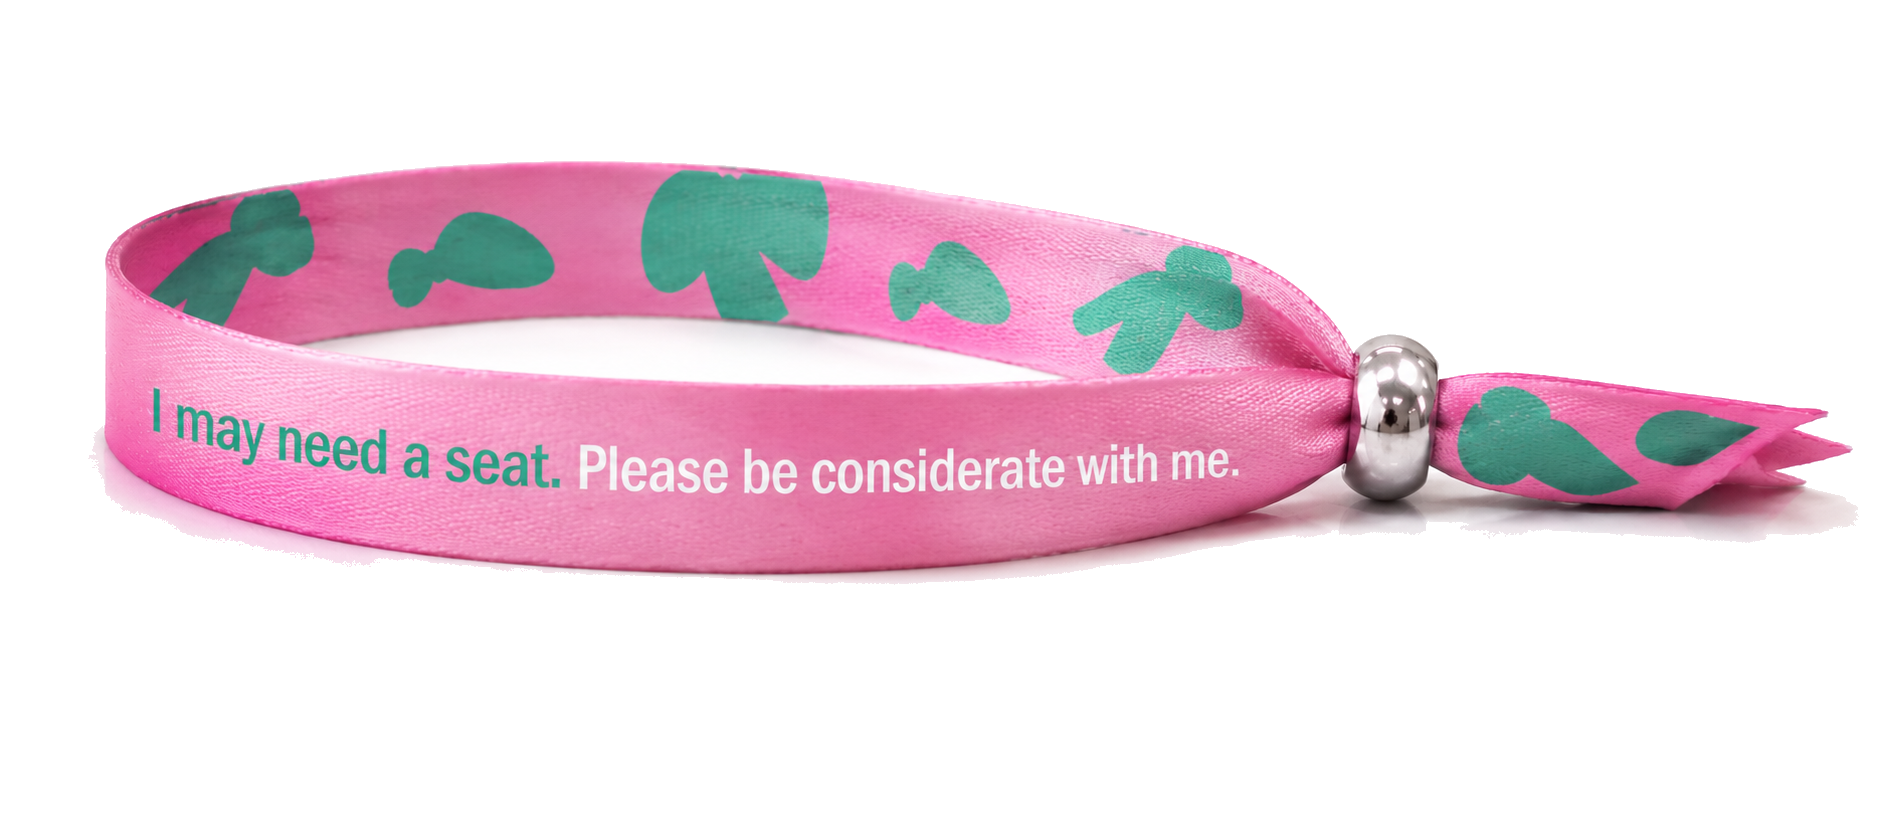
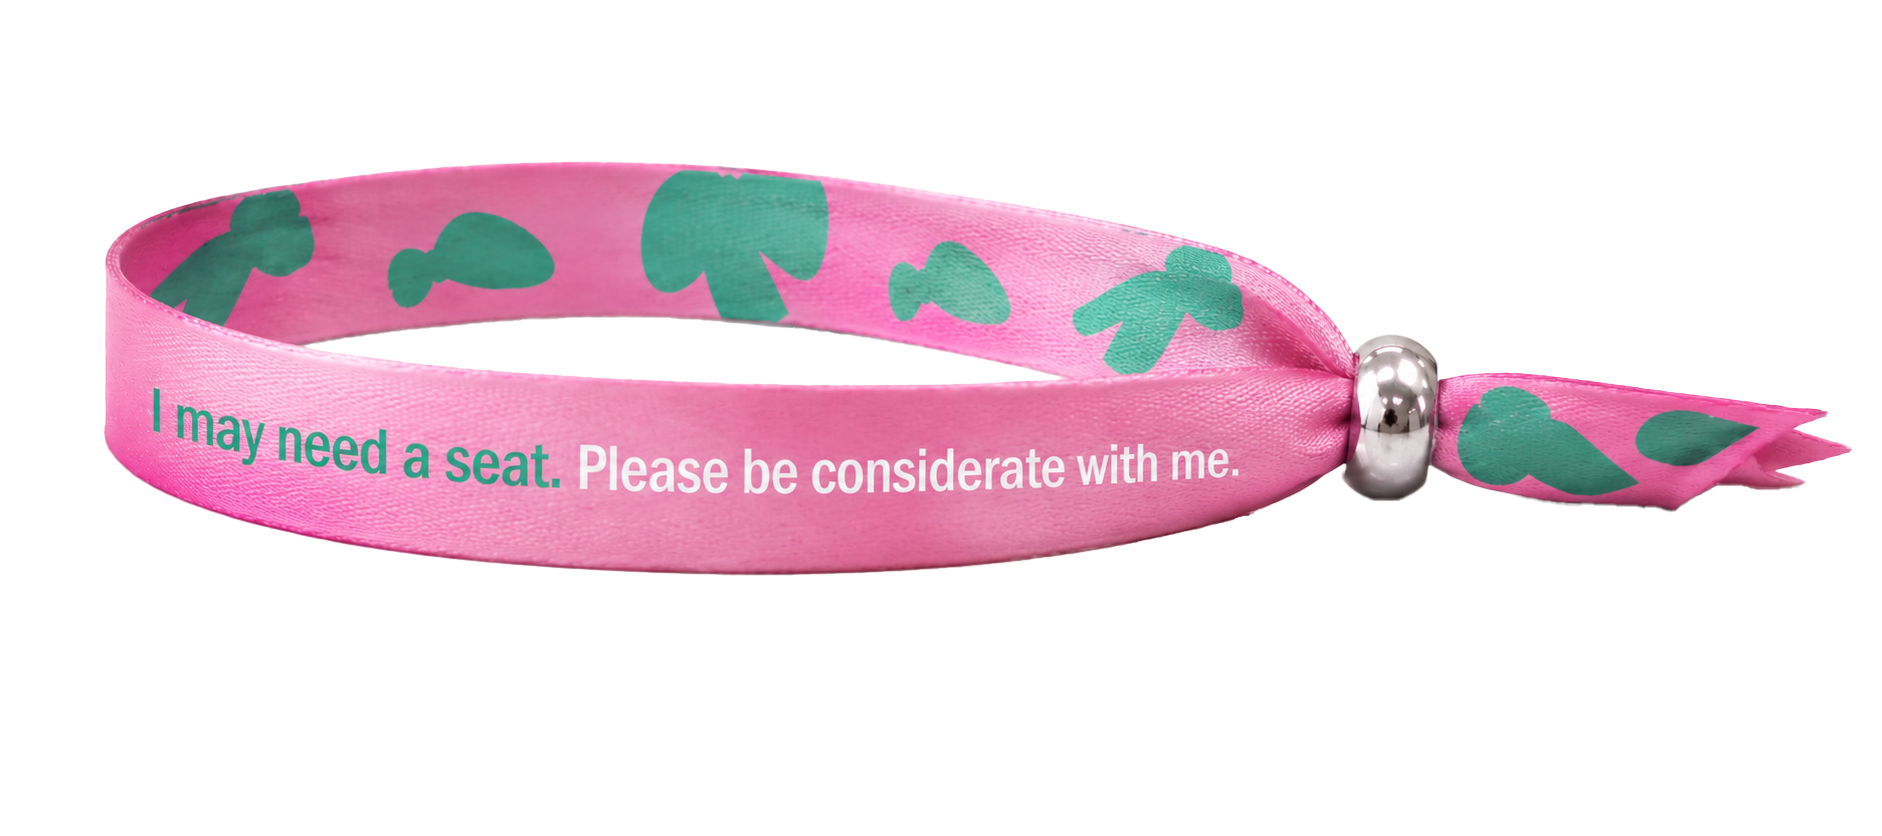
refactor: update typography configurations, reposition wristband graphics, and implement randomized circle drop-in animation logic

Changed region(s): [[0.3082, 0.5598, 0.9862, 0.7153], [0.0308, 0.5287, 0.3082, 0.6842], [0.1541, 0.3732, 0.4623, 0.4354]]

diff --git a/unseen.html b/unseen.html
@@ -85,14 +85,33 @@
               "overlap-offset": "-40px"
             },
             fontFamily: {
-              "body-lg": ["Tobias", "serif"],
-              "display-xl": ["Tobias", "serif"],
-              "headline-md": ["Franklin Gothic Medium", "sans-serif"],
-              "headline-lg-mobile": ["Tobias", "serif"],
-              "label-bold": ["Franklin Gothic Medium", "sans-serif"],
-              "headline-lg": ["Tobias", "serif"],
-              "body-md": ["Franklin Gothic Medium", "sans-serif"]
-            }
+              "body-lg": ["Tobias"],
+              "display-xl": ["Tobias"],
+              "headline-md": ["Franklin Gothic Medium Regular", "sans-serif"],
+              "headline-lg-mobile": ["Tobias"],
+              "label-bold": ["Franklin Gothic Medium Regular", "sans-serif"],
+              "headline-lg": ["Tobias"],
+              "body-md": ["Franklin Gothic Medium Regular", "sans-serif"],
+            },
+            fontSize: {
+              "body-lg": ["22px", { lineHeight: "32px", fontWeight: "400" }],
+              "display-xl": [
+                "80px",
+                {
+                  lineHeight: "90px",
+                  letterSpacing: "-0.02em",
+                  fontWeight: "300",
+                },
+              ],
+              "headline-md": ["28px", { lineHeight: "34px", fontWeight: "400" }],
+              "headline-lg-mobile": [
+                "32px",
+                { lineHeight: "38px", fontWeight: "400" },
+              ],
+              "label-bold": ["16px", { lineHeight: "20px", fontWeight: "400" }],
+              "headline-lg": ["48px", { lineHeight: "56px", fontWeight: "400" }],
+              "body-md": ["18px", { lineHeight: "28px", fontWeight: "400" }],
+            },
           }
         }
       };

diff --git a/your-needs.html b/your-needs.html
@@ -480,7 +480,7 @@
           <p class="transform translate-x-4" data-reveal="up">I may need quiet.</p>
           <p class="transform translate-x-20" data-reveal="right">I'm feeling overwhelmed.</p>
         </div>
-        <div class="absolute bottom-10 right-10 md:right-32 w-64 h-auto transform rotate-12 opacity-90" data-reveal="scale">
+        <div class="absolute bottom-20 right-10 md:right-auto md:left-[calc(50%+100px)] w-64 h-auto transform rotate-12 opacity-90" data-reveal="scale">
           <img src="assets/png/04-Wristbands/yellow-wristband-nobg.png" class="w-full h-auto object-contain" alt="Emotional Wristband" />
         </div>
       </section>
@@ -559,7 +559,7 @@
           <p class="transform translate-x-4" data-reveal="up">I may need assistance.</p>
           <p class="transform translate-x-12" data-reveal="right">I'm managing a physical condition.</p>
         </div>
-        <div class="absolute bottom-10 left-10 md:left-32 w-64 h-auto transform -rotate-6 opacity-90" data-reveal="scale">
+        <div class="absolute bottom-20 left-10 md:left-auto md:right-[calc(50%+100px)] w-64 h-auto transform -rotate-6 opacity-90" data-reveal="scale">
           <img src="assets/png/04-Wristbands/pink-wristband-nobg.png" class="w-full h-auto object-contain" alt="Physical Wristband" />
         </div>
       </section>
@@ -634,7 +634,7 @@
           <p class="transform translate-x-4" data-reveal="up">I may move slowly.</p>
           <p class="transform translate-x-20" data-reveal="right">I'm easily fatigued.</p>
         </div>
-        <div class="absolute bottom-10 right-10 md:right-32 w-64 h-auto transform rotate-12 opacity-90" data-reveal="scale">
+        <div class="absolute bottom-20 right-10 md:right-auto md:left-[calc(50%+100px)] w-64 h-auto transform rotate-12 opacity-90" data-reveal="scale">
           <img src="assets/png/04-Wristbands/blue-wristband-nobg.png" class="w-full h-auto object-contain" alt="Energy Wristband" />
         </div>
       </section>
@@ -691,20 +691,27 @@
 
         revealEls.forEach((el) => observer.observe(el));
 
-        // Circle grid drop-in — row-by-row stagger
-        const COLS = 6;
-        const ROW_DELAY = 200; // ms between rows
+        // Circle grid drop-in — dynamic random order per grid
         const circleGrids = document.querySelectorAll('[data-circle-grid]');
-
-        // Tag each direct .aspect-square child's inner circle with delay
         circleGrids.forEach((grid) => {
           const cells = Array.from(grid.children).filter(c => c.classList.contains('aspect-square'));
-          cells.forEach((cell, i) => {
+          const inners = [];
+          cells.forEach((cell) => {
             const inner = cell.firstElementChild;
-            if (!inner) return;
+            if (inner) inners.push(inner);
+          });
+
+          // Fisher-Yates shuffle to randomize the order
+          for (let i = inners.length - 1; i > 0; i--) {
+            const j = Math.floor(Math.random() * (i + 1));
+            [inners[i], inners[j]] = [inners[j], inners[i]];
+          }
+
+          // Apply staggered transition delay based on the shuffled order
+          const BASE_DELAY = 80; // ms between each circle dropping
+          inners.forEach((inner, index) => {
             inner.classList.add('circle-drop');
-            const row = Math.floor(i / COLS);
-            inner.style.transitionDelay = `${row * ROW_DELAY}ms`;
+            inner.style.transitionDelay = `${index * BASE_DELAY}ms`;
           });
         });
 

diff --git a/seen.html b/seen.html
@@ -86,13 +86,13 @@
               "overlap-offset": "-40px",
             },
             fontFamily: {
-              "body-lg": ["Tobias", "serif"],
-              "display-xl": ["Tobias", "serif"],
-              "headline-md": ["Franklin Gothic Medium", "sans-serif"],
-              "headline-lg-mobile": ["Tobias", "serif"],
-              "label-bold": ["Franklin Gothic Medium", "sans-serif"],
-              "headline-lg": ["Tobias", "serif"],
-              "body-md": ["Franklin Gothic Medium", "sans-serif"],
+              "body-lg": ["Tobias"],
+              "display-xl": ["Tobias"],
+              "headline-md": ["Franklin Gothic Medium Regular", "sans-serif"],
+              "headline-lg-mobile": ["Tobias"],
+              "label-bold": ["Franklin Gothic Medium Regular", "sans-serif"],
+              "headline-lg": ["Tobias"],
+              "body-md": ["Franklin Gothic Medium Regular", "sans-serif"],
             },
             fontSize: {
               "body-lg": ["22px", { lineHeight: "32px", fontWeight: "400" }],